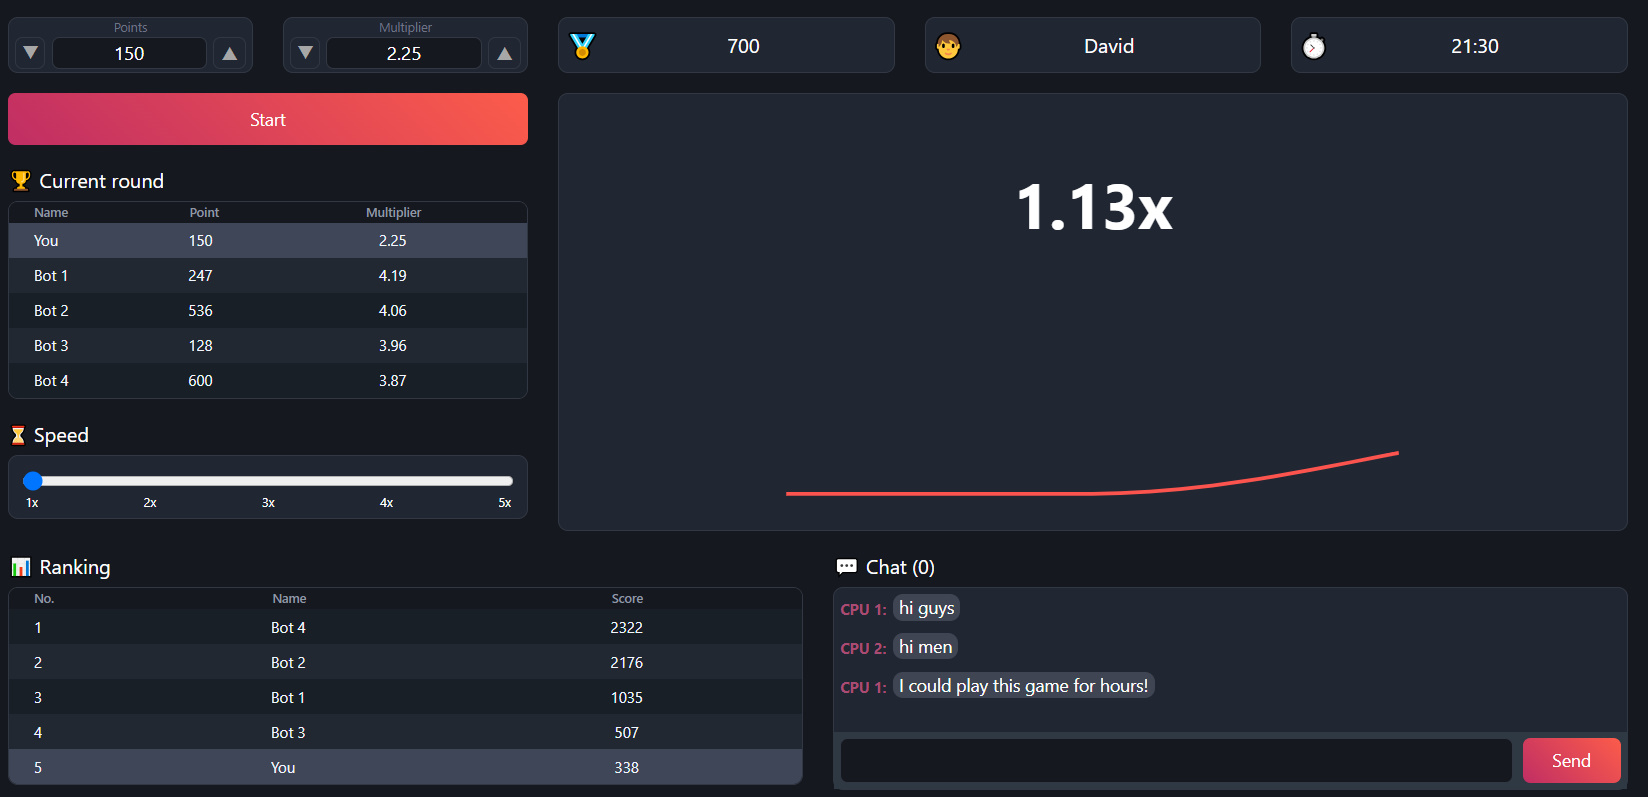
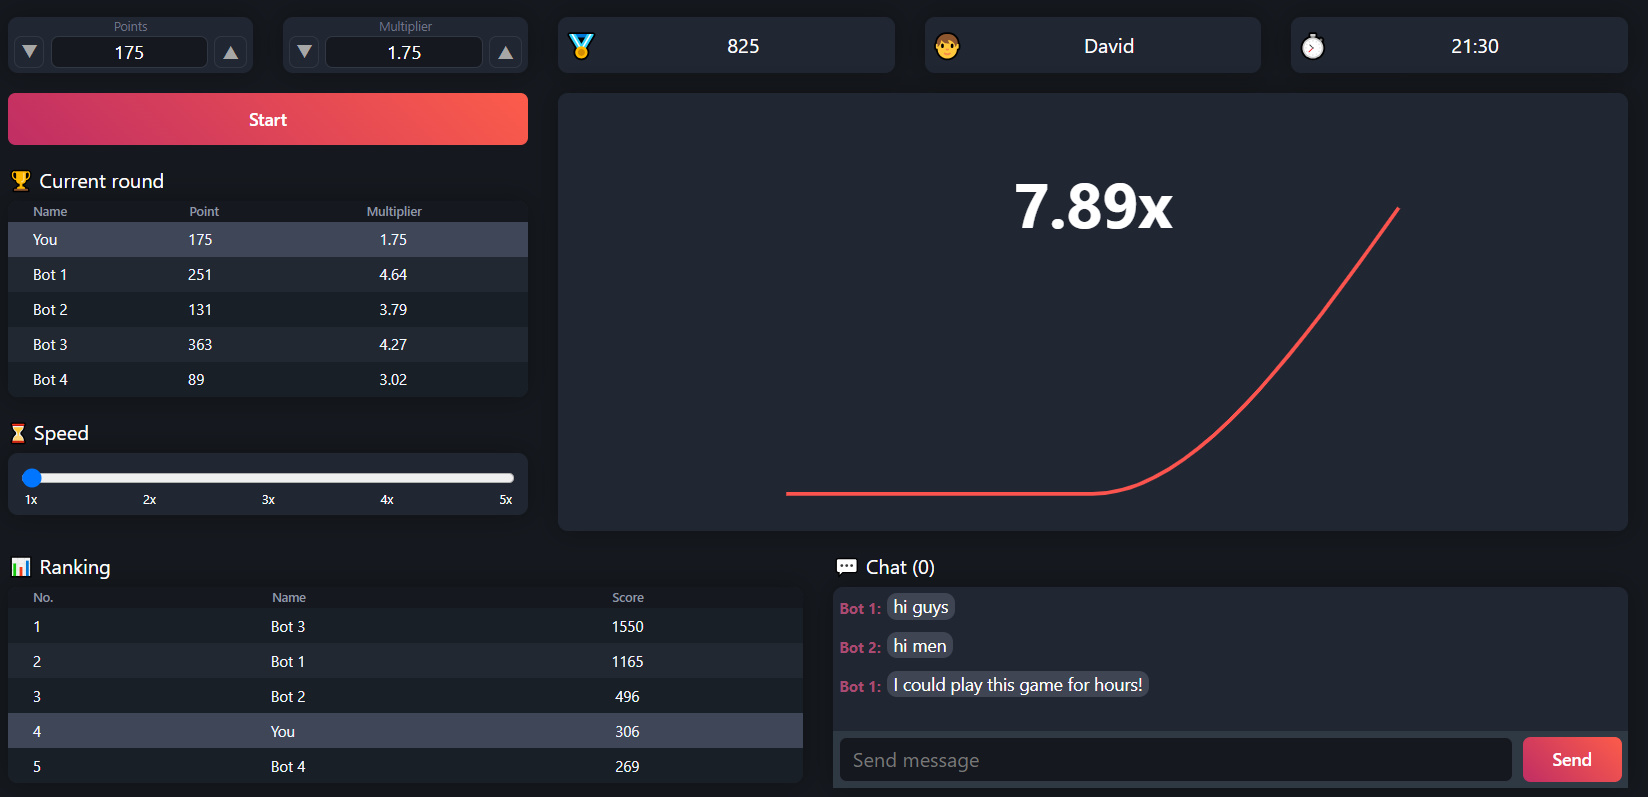
Improve design

diff --git a/src/App.test.tsx b/src/App.test.tsx
@@ -33,12 +33,9 @@ describe('App', () => {
       </Provider>
     );
 
-    expect(screen.getByText('Join')).toBeInTheDocument();
-    expect(screen.getByText('Start')).toBeInTheDocument();
-    expect(screen.getByText('🏅')).toBeInTheDocument();
-    expect(screen.getByText(/x$/)).toBeInTheDocument();
-    expect(screen.getByText('📊 Ranking')).toBeInTheDocument();
-    expect(screen.getByText('💬 Chat (0)')).toBeInTheDocument();
+    expect(screen.getByTestId('join-component')).toBeInTheDocument();
+    expect(screen.getByTestId('info-graph-container')).toBeInTheDocument();
+    expect(screen.getByTestId('ranking-chat-container')).toBeInTheDocument();
   });
 
   test('renders the Join component and allows input', async () => {
@@ -66,72 +63,8 @@ describe('App', () => {
     const startButton = screen.getByText('Start');
     fireEvent.click(startButton);
 
-    // Add more assertions to check if the state has changed accordingly
-    // Example: Check if the button is disabled after clicking
     await waitFor(() => {
       expect(startButton).toBeDisabled();
-    });
-  });
-
-  test('renders the Graph component', async () => {
-    render(
-      <Provider store={store}>
-        <App />
-      </Provider>
-    );
-
-    await waitFor(() => {
-      expect(screen.getByText(/x$/)).toBeInTheDocument();
-    });
-  });
-
-  test('renders the Info component', async () => {
-    store = mockStore({
-      reduxStore: {
-        userName: 'John Doe',
-        balance: 1000,
-        generatedValue: 0,
-        speed: 0,
-        animShow: false,
-        usersRanking: [],
-      },
-    });
-
-    render(
-      <Provider store={store}>
-        <App />
-      </Provider>
-    );
-
-    await waitFor(() => {
-      expect(screen.getByText('🏅')).toBeInTheDocument();
-      expect(screen.getByText('John Doe')).toBeInTheDocument();
-    });
-  });
-
-  test('renders the Ranking component', async () => {
-    render(
-      <Provider store={store}>
-        <App />
-      </Provider>
-    );
-
-    await waitFor(() => {
-      expect(screen.getByText('📊 Ranking')).toBeInTheDocument();
-      expect(screen.getByText('John Doe')).toBeInTheDocument();
-      expect(screen.getByText('Jane Doe')).toBeInTheDocument();
-    });
-  });
-
-  test('renders the Chat component', async () => {
-    render(
-      <Provider store={store}>
-        <App />
-      </Provider>
-    );
-
-    await waitFor(() => {
-      expect(screen.getByText('💬 Chat (0)')).toBeInTheDocument();
     });
   });
 });

diff --git a/src/App.css b/src/App.css
@@ -8,7 +8,7 @@ body {
 .card-box {
   background: #202632;
   border-radius: 8px;
-  border: 1px solid #323843;
+  box-shadow: 0 0 20px #0f1012;
 }
 
 @media screen and (max-width: 768px) {
@@ -31,12 +31,17 @@ input {
   border: 1px solid #323843;
 }
 
+input::placeholder {
+  color: #787878;
+}
+
 .btn-primary {
   background: linear-gradient(45deg, #c02e64, #fc5c4a);
   background-size: 100%;
   transition: 400ms;
   padding: 0 1.7em;
   font-size: 14px;
+  font-weight: 600;
   border: 0;
 }
 
@@ -46,5 +51,6 @@ input {
 
 .btn:disabled {
   opacity: 1;
-  background: #7c859a;
+  color: #cacaca;
+  background: #686a6c;
 }

diff --git a/src/setupTests.ts b/src/setupTests.ts
@@ -3,3 +3,7 @@
 // expect(element).toHaveTextContent(/react/i)
 // learn more: https://github.com/testing-library/jest-dom
 import '@testing-library/jest-dom';
+
+// Polyfill for setImmediate and clearImmediate functions for environments where they are not defined.
+(global as any).setImmediate = (callback: (...args: any[]) => void, ...args: any[]) => setTimeout(callback, 0, ...args);
+(global as any).clearImmediate = (id: NodeJS.Immediate) => clearTimeout(id as unknown as NodeJS.Timeout);

diff --git a/src/hooks/useChat.ts b/src/hooks/useChat.ts
@@ -37,7 +37,7 @@ export const useChat = () => {
 
   // Scroll to the bottom of the messages container
   const scrollToBottom = () => {
-    if (messagesEndRef.current) {
+    if (messagesEndRef.current && messagesEndRef.current.scrollIntoView) {
       messagesEndRef.current.scrollIntoView({ behavior: "smooth" });
     }
   };

diff --git a/src/App.tsx b/src/App.tsx
@@ -12,7 +12,7 @@ import './App.css';
 const App: React.FC = () => {
   return (
     <Provider store={store}>
-      <div className="App">
+      <div className="App" data-testid="app">
         <div className="container">
           <div className="row mt-5">
             <div className="col-12 col-md-4 position-relative">

diff --git a/src/components/Join/Join.tsx b/src/components/Join/Join.tsx
@@ -28,7 +28,7 @@ const Join: React.FC = () => {
   }, [nickname]);
 
   return (
-    <div className={`card-box join-box ${userName ? "d-none" : ""}`}>
+    <div className={`card-box join-box ${userName ? "d-none" : ""}`} data-testid="join-component">
       <div className="join-title">Welcome</div>
 
       <form>

diff --git a/src/components/Ranking/Ranking.tsx b/src/components/Ranking/Ranking.tsx
@@ -23,7 +23,7 @@ const Ranking: React.FC = () => {
   }, [ranking]);
 
   return (
-    <div className="col-12 col-md-6">
+    <div className="col-12 col-md-6" data-testid="ranking-chat-container">
       <div className="card-title">📊 Ranking</div>
 
       <div className="card-box ranking-box">

diff --git a/src/components/Chat/Chat.tsx b/src/components/Chat/Chat.tsx
@@ -47,6 +47,7 @@ const Chat: React.FC = () => {
             type="text"
             className="pr-3 pr-md-3"
             name="message"
+            placeholder="Send message"
             onChange={(e) => setMsg(e.target.value)}
             value={msg}
           />

diff --git a/src/components/Graph/Graph.tsx b/src/components/Graph/Graph.tsx
@@ -22,7 +22,7 @@ const Graph: React.FC = () => {
   };
 
   return (
-    <div className="col-12 mt-3">
+    <div className="col-12 mt-3" data-testid="info-graph-container">
       <div className="card-box graph-box">
         <div className="result">
           <CountUp

diff --git a/src/components/Join/Join.css b/src/components/Join/Join.css
@@ -26,8 +26,8 @@
 
 .join-hint {
   width: 100%;
-  color: #606671;
-  font-size: 10px;
+  color: #808691;
+  font-size: 14px;
   text-align: center;
   margin-bottom: 5px;
 }
